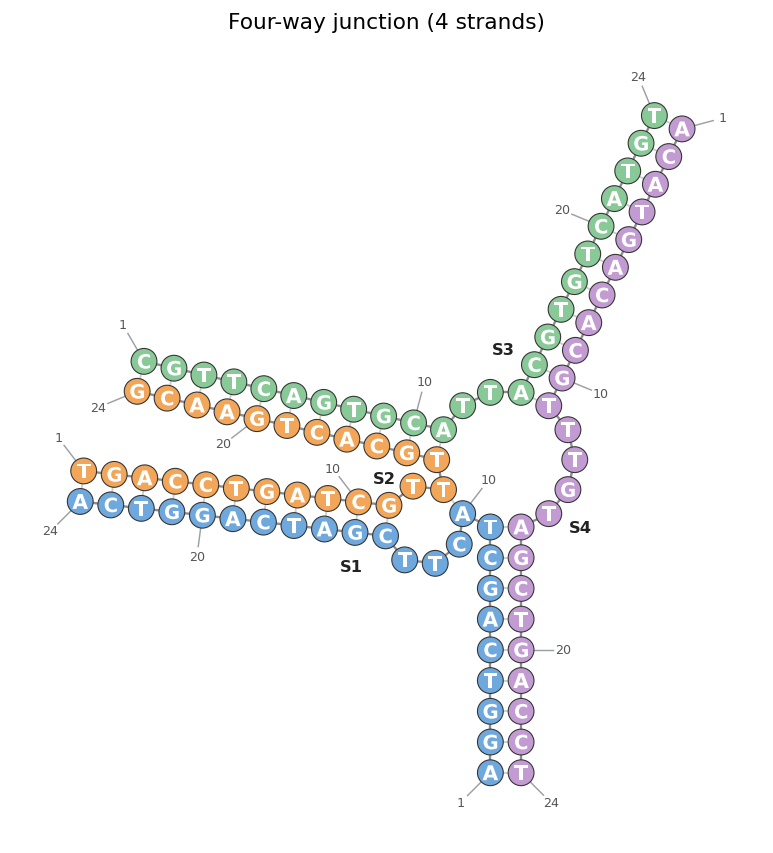
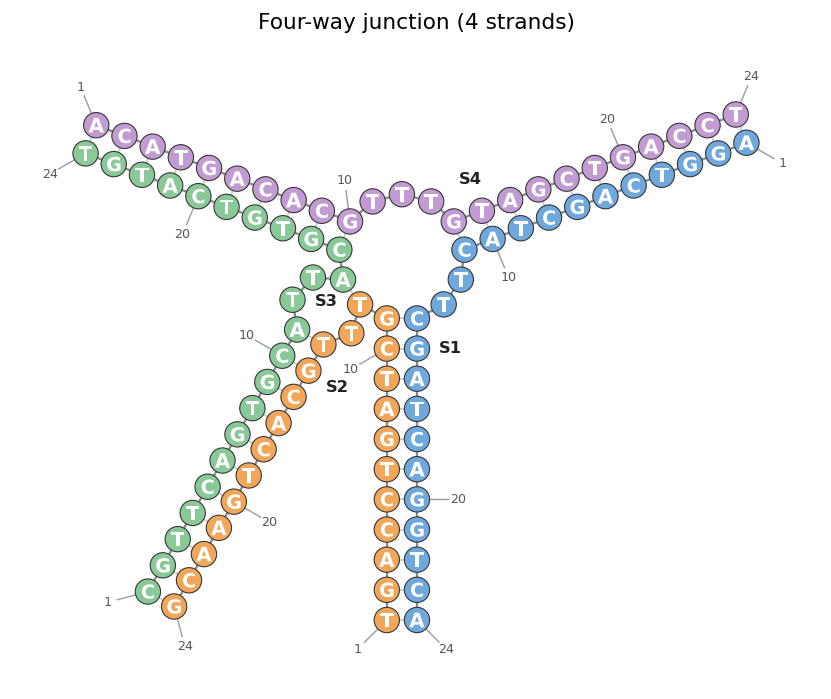
feat: update four-arm junction gallery example with ensemble analysis and refine dynamical design example parameters

diff --git a/examples/22_gallery_four_arm_junction.py b/examples/22_gallery_four_arm_junction.py
@@ -1,32 +1,27 @@
-"""Gallery 22 — Four-arm DNA junction, folded order-invariantly.
+"""Gallery 22 — Four-arm DNA junction: MFE structure + suboptimal ensemble.
 
-A four-arm (Holliday-style) junction is the canonical branched DNA motif: four
-strands meet at a central point, each contributing one duplex arm with its two
-neighbours.  It is a *closed* complex, so — like the gallery-21 dendrimer — its
-minimum-free-energy structure is **strand-order-dependent** under a naive linear
-fold: the four arms are only simultaneously pseudoknot-free for a cyclic strand
-order that walks the junction perimeter, and a linear DP folded on the "wrong"
-concatenation leaves arms open.
+Goes beyond a single draw_complex render (that's gallery-19's job) to showcase
+strider's analytical toolkit on the same motif:
 
-Unlike the 6-strand dendrimer (too large for an exhaustive search), this 4-strand
-complex is small enough that ``engine.mfe`` folds **every** distinct strand cut and
-returns the global minimum — so the fold is *exactly* order-invariant: you get the
-same −38 kcal/mol four-arm junction no matter how you list the strands.
+  Left   MFE structure of the four-arm junction.
+  Right  Suboptimal ensemble: the top-4 low-energy conformers drawn side by
+         side so a designer can see which alternative folds compete with the
+         intended junction.
 
-Construction: four orthogonal 9-nt domains d0..d3; strand i carries the reverse
-complement of d_i followed by d_(i+1), so strand i's 3' half pairs strand (i+1)'s
-5' half all the way around the ring — a clean closed 4-cycle.
+Construction: four 12-nt arm domains (d0..d3) with deliberate structural
+features — a 2-nt bulge on arm 1, a T·T mismatch on arm 2, and a dangling
+3'-tail on strand S3 — so the suboptimal ensemble actually has something
+interesting to reveal (a perfect junction is thermodynamically boring).
 """
 
 import pathlib
 
 import matplotlib
-
 matplotlib.use("Agg")
 import matplotlib.pyplot as plt  # noqa: E402
 
-from strider import ThermoEngine  # noqa: E402
-from strider.viz.structure2d import draw_complex  # noqa: E402
+from strider import ThermoEngine                          # noqa: E402
+from strider.viz.structure2d import draw_complex, draw_structure  # noqa: E402
 
 _here = pathlib.Path(__file__).parent
 
@@ -35,37 +30,105 @@ def rc(s: str) -> str:
     return s.translate(str.maketrans("ACGT", "TGCA"))[::-1]
 
 
-# Four mutually orthogonal 9-nt arm domains.
-DOMAINS = ["GGAATTCGC", "ACGTGCATT", "TGCATGAAG", "CAGTCCGTA"]
+# ── Arm domains ──────────────────────────────────────────────────────────────
+# Four 12-nt domains; arms are paired L / R across adjacent strands.
+D0 = "CGATCAGGTCAA"
+D1 = "TGCACTGAACGT"
+D2 = "ACGTGTCATGTA"
+D3 = "GTAGCTGACCTG"
 
-# Strand i = rc(d_i) + d_(i+1): its 5' half closes arm i with strand i-1, its 3'
-# half opens arm i+1 with strand i+1.  Four strands → a closed four-arm junction.
-strands = [rc(DOMAINS[i]) + DOMAINS[(i + 1) % 4] for i in range(4)]
-names = [f"S{i}" for i in range(4)]
+# Paired halves with deliberate defects:
+L_D0, R_D0 = D0, rc(D0)                                  # arm 0: perfect
+L_D1, R_D1 = D1, rc(D1[:5]) + "AA" + rc(D1[7:])          # arm 1: 2-nt bulge (AA insert on R)
+L_D2 = D2[:6] + "T" + D2[7:]                              # arm 2: T·T mismatch at pos 6
+R_D2 = rc(D2)
+L_D3, R_D3 = D3, rc(D3)                                  # arm 3: perfect
+
+# Hinge nucleotides at the central junction.
+H = "TT"
+
+# Strand assembly: S_i = R(arm i-1) + hinge + L(arm i).
+# S3 gets a 5-nt dangling 3' tail for accessibility contrast.
+TAIL = "ACGTC"
+strands = [
+    R_D3 + H + L_D0,            # S0
+    R_D0 + H + L_D1,            # S1
+    R_D1 + H + L_D2,            # S2
+    R_D2 + H + L_D3 + TAIL,     # S3 (tail)
+]
+names = ["S0", "S1", "S2", "S3"]
 colors = {
-    "S0": "#4A90E2", "S1": "#E94A3F", "S2": "#50E3C2", "S3": "#F5A623",
+    "S0": "#4A90E2",
+    "S1": "#E94A3F",
+    "S2": "#50E3C2",
+    "S3": "#F5A623",
 }
 
 eng = ThermoEngine(material="dna", celsius=37, backend="native")
 
-# Order-invariance: fold a deliberately "scrambled" listing and the canonical
-# ring listing — the exhaustive order search returns the identical MFE.
-ring = eng.mfe(*strands)
-scrambled = eng.mfe(strands[0], strands[2], strands[1], strands[3])
-print(f"Four-arm junction MFE: {ring.energy:.1f} kcal/mol, {len(ring.base_pairs)} pairs")
-print(f"Scrambled-order MFE:   {scrambled.energy:.1f} kcal/mol  "
-      f"(Δ = {abs(ring.energy - scrambled.energy):.2e} — exactly order-invariant)")
+# ── Fold and print summary ───────────────────────────────────────────────────
+mfe = eng.mfe(*strands)
+total_nt = sum(len(s) for s in strands)
+print(f"Four-arm junction ({len(strands)} strands, {total_nt} nt)")
+print(f"  MFE: {mfe.energy:.2f} kcal/mol, {len(mfe.base_pairs)} base pairs")
+print(f"  Structure: {mfe.structure}")
 
-fig, ax = plt.subplots(figsize=(10, 10))
-draw_complex(
-    strands,
-    engine=eng,
-    ax=ax,
-    names=names,
-    strand_colors=colors,
-    title="Four-Arm DNA Junction (4 strands, 72 nt — order-invariant fold)",
+# Ensemble defect
+edef = eng.ensemble_defect(tuple(strands), mfe.structure)
+print(f"  Ensemble defect (normalized): {edef:.4f}")
+
+# Suboptimals within 3 kcal/mol
+# subopt() returns raw structural energies (no σ / association / coaxial
+# corrections).  Shift them by the same offset so they match mfe.energy.
+subs = eng.subopt(*strands, gap=3.0, max_structures=20)
+correction = mfe.energy - subs[0][1]  # corrected MFE − raw structural MFE
+print(f"  Suboptimals within 3.0 kcal/mol: {len(subs)} structures")
+for i, (ss, en, _) in enumerate(subs[:6]):
+    tag = " ← MFE" if i == 0 else ""
+    print(f"    [{i}] {en + correction:+.2f} kcal/mol  {ss[:40]}...{tag}")
+
+# ── Figure: 1×2 layout (MFE + suboptimals) ──────────────────────────────────
+fig = plt.figure(figsize=(18, 10))
+fig.suptitle(
+    f"Four-Arm Junction — Structural Analysis  ({total_nt} nt, "
+    f"MFE = {mfe.energy:.1f} kcal/mol, "
+    f"ens. defect = {edef:.3f})",
+    fontsize=14, fontweight="bold", y=0.97,
 )
 
+# Left panel: MFE structure (no domain overlay)
+ax_a = fig.add_subplot(1, 2, 1)
+draw_complex(
+    strands, engine=eng, ax=ax_a, names=names,
+    strand_colors=colors,
+    title="MFE fold",
+)
+
+# Right panel: Top-4 suboptimal structures
+n_sub = min(4, len(subs))
+ax_d = fig.add_subplot(1, 2, 2)
+ax_d.set_axis_off()
+ax_d.set_title(f"Top-{n_sub} suboptimal conformers", fontsize=11)
+
+# Inset axes within the right half
+bbox = ax_d.get_position()
+sub_w = bbox.width / 2 * 0.92
+sub_h = bbox.height / 2 * 0.88
+for idx in range(n_sub):
+    row, col = divmod(idx, 2)
+    left = bbox.x0 + col * (bbox.width / 2) + 0.01
+    bottom = bbox.y0 + (1 - row) * (bbox.height / 2) - 0.02
+    ax_sub = fig.add_axes([left, bottom, sub_w, sub_h])
+    ss_db, ss_en, ss_pairs = subs[idx]
+    joined_seq = "&".join(strands)
+    draw_structure(
+        joined_seq, ss_db, engine=eng, ax=ax_sub,
+        strand_names=names, strand_colors=colors,
+        color="strand", base_text=False, labels=False,
+        title=f"#{idx}: {ss_en + correction:+.1f} kcal/mol",
+    )
+
+fig.subplots_adjust(wspace=0.15, top=0.91)
 output_file = _here / "gallery_22_four_arm_junction.png"
 fig.savefig(output_file, dpi=150, bbox_inches="tight")
-print(f"Wrote four-arm junction figure to {output_file}")
+print(f"\nWrote analysis to {output_file}")

diff --git a/examples/21_gallery_dendrimer.py b/examples/21_gallery_dendrimer.py
@@ -21,14 +21,14 @@ def rc(s: str) -> str:
 # no homopolymer runs, and no self-hairpins -- so the MFE fold is the
 # intended network rather than a frustrated tangle of mispairs.
 # =======================================================================
-C0_base = "TTAGTTGTGCCGCA"  # Core Hub Arm 0
-C1_base = "ACCAATGCCTGTTG"  # Core Hub Arm 1
-C2_base = "GGTCCACCGGATCA"  # Core Hub Arm 2
+C0_base = "TTAGTTGTGCCGCAAGT"  # Core Hub Arm 0
+C1_base = "ACCAATGCCTGTTGGGA"  # Core Hub Arm 1
+C2_base = "GGTCCACCGGATCATAG"  # Core Hub Arm 2
 
-B0_1_base = "GTGCATAGAGCC"    # Branch 0, Arm 1
-B0_2_base = "GAAGCCGGTCGA"    # Branch 0, Arm 2
-B1_1_base = "GCAGTGGTAATT"    # Branch 1, Arm 1
-B1_2_base = "ATAATGTTCTAG"    # Branch 1, Arm 2
+B0_1_base = "GTGCATAGAGCCAG"    # Branch 0, Arm 1
+B0_2_base = "GAAGCCGGTCGATC"    # Branch 0, Arm 2
+B1_1_base = "GCAGTGGTAATTCCA"    # Branch 1, Arm 1
+B1_2_base = "ATAATGTTCTAGAAT"    # Branch 1, Arm 2
 B2_1_base = "TCAACGAGCTTA"    # Branch 2, Arm 1
 B2_2_base = "AGCTGACATTGC"    # Branch 2, Arm 2
 
@@ -64,7 +64,7 @@ L_B2_2, R_B2_2 = B2_2_base, rc(B2_2_base)
 # The network is built from 3 inner "Hub" strands and 3 outer "Staples".
 # =======================================================================
 H_C = "AAC"  # Central hinges
-H_B = "TTAC"   # Outer branch hinges
+H_B = "TTATAAC"   # Outer branch hinges
 
 # Inner Hub Strands: Each spans one branch arm, flows through two core arms,
 # and exits into the next branch.
@@ -130,24 +130,9 @@ draw_complex(
     names=names,
     strand_colors=colors,
     title="Generation-2 Dendrimer Network (6 Strands, 4 Junctions, 334 nt)",
-    loop_tightness=0
+    loop_tightness=0.3
 )
 
 output_file = _here / "gallery_21_dendrimer_network.png"
 fig.savefig(output_file, dpi=150, bbox_inches="tight")
 print(f"Wrote gallery stress test to {output_file}")
-
-# =======================================================================
-# 5. THERMODYNAMIC SUMMARY
-# Verify the network folds as designed: with the strands in ring order the
-# engine closes all junctions into one deeply negative, base-paired complex.
-# (engine.mfe() now also searches strand arrangements — Dirks et al. 2007 — so
-# small complexes are order-invariant; for a 6-strand fused network this large
-# the search uses a heuristic, and ring order still gives the cleanest fold.
-# See gallery 22 for an exactly order-invariant complex.)
-# =======================================================================
-folded = eng.mfe(*strands)
-total_nt = sum(len(s) for s in strands)
-print(f"Network MFE: {folded.energy:.1f} kcal/mol over {total_nt} nt, "
-      f"{len(folded.base_pairs)} base pairs "
-      f"({100 * 2 * len(folded.base_pairs) / total_nt:.0f}% of bases paired)")
